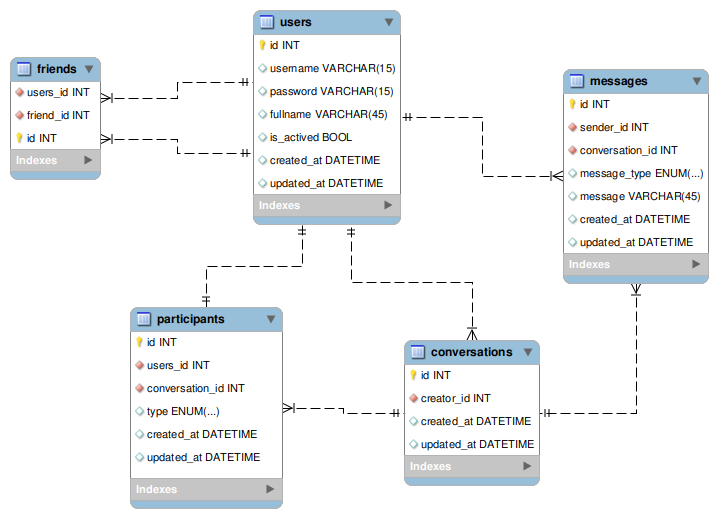
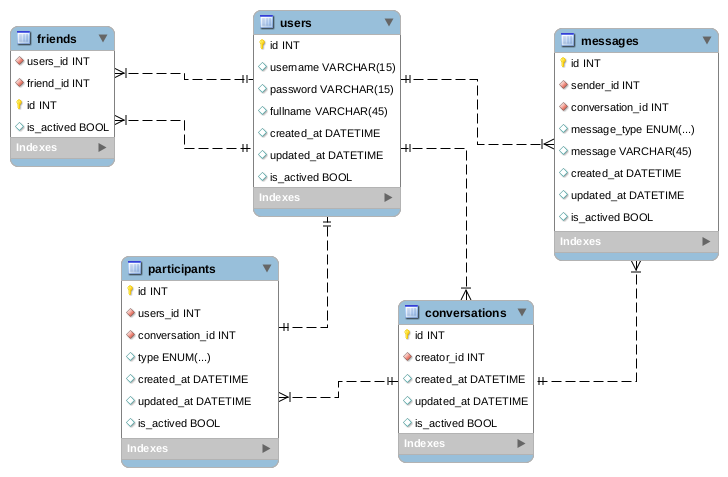
Add is_actived field to all table in database diagrams

diff --git a/README.md b/README.md
@@ -60,48 +60,7 @@
 
 ### 7. Add friends
 
-- Type 1:
-
-```plantuml
-@startuml
-    hide footbox
-  
-    actor "User A"
-    "User A" -> "App Server" : Sent a POST request (with JWT + username) \nto add new friend
-    activate "App Server"
-    "App Server" -> "Redis Server": Check JWT BlackList
-    actor "User B"
-    "App Server" -> "MySql Server": Validate JWT then store request add friend to MySql
-    "App Server" -> "User B": notify
-    activate "User B"
-    "User B" --> "App Server": accept
-    deactivate "User B"
-    "App Server" -> "MySql Server": store to MySql
-    "App Server" --> "User A": notify
-    deactivate "App Server"
-@enduml
-```
-
-- Type 2:
-
-```plantuml
-@startuml
-hide footbox
-
-hide footbox
-
-actor "User A"
-
-"User A" -> "App Server": Sent a POST request (with JWT + username) \nto add a friend
-"App Server" -> "Redis Server": Check JWT BlackList
-"App Server" -> "App Server": Validate JWT
-"App Server" -> "Redis Server": Check username exist
-"Redis Server" -> "App Server": True
-"App Server" -> "MySql Server": Store in friend list
-"App Server" -> "User A": Return result to user A
-
-@enduml
-```
+![addfriend](img/seq-digarams/addfriend.png)
 
 ### 8. Remove friends
 
@@ -117,11 +76,12 @@ actor "User A"
 
 ## Redis Cache Data Specifications
 
-| Key                 |              Value             |        Type | Description |
-|---------------------|--------------------------------|-------------|----|
-| foochat:user:{user_name}    | user_id,user_full_name, user_hashed_pwd | Hash        | Store info of user |
-|foochat:blackblist           |jwt1,jwt2, ...                  |Set          | Store list invalid/expired JWT token |
-|foochat:user_status:{user_id}|status                          |String       | Store status of a user |
-|foochat:{user_id}:friends    |user_id1, user_id2,..           |Set          | Store list friends of a user |
-|foochat:user:online    |user_id1, user_id2,..           |Set          | Store list online users |
-|foochat:{user_id}:{conversation_id}:recentchat | msg_id1,msg_id2,... | Set | Store 10 messages of a conversations of a user |
+| Key|Value|Type|Description|
+|-|-|--|-|
+|foochat:user:{user_id}:info| user_name,user_hashed_pwd,user_fullname |Hash|Store infomations of user |
+|foochat:user:{user_name}:hashedpwd| user_id,user_hashed_pwd |Hash|Store hashed password of user |
+|foochat:blackblist|jwt1,jwt2, ...|Set| Store list invalid/expired JWT token |
+|foochat:user:{user_id}:status|status|String| Store status of a user |
+|foochat:user:{user_id}:friends|user_id1, user_id2,..|Set| Store list friends of a user |
+|foochat:user:online|user_id1, user_id2,..|Set| Store list online users|
+|foochat:users:{user_id}:{conversation_id}:recentchats | msg_id1,msg_id2,...| Set | Store 10 messages of a conversations of a user |
